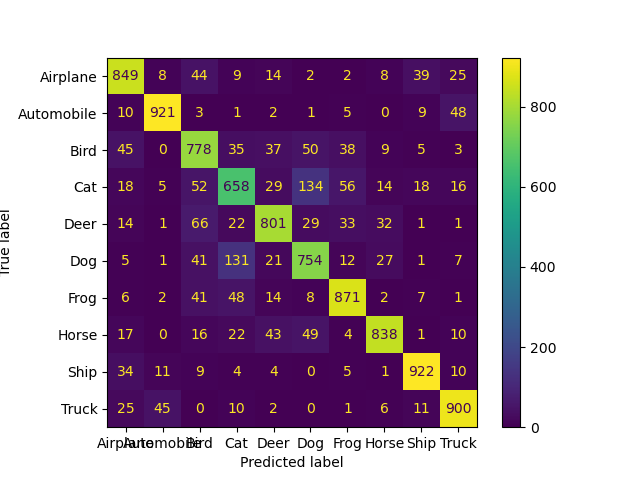
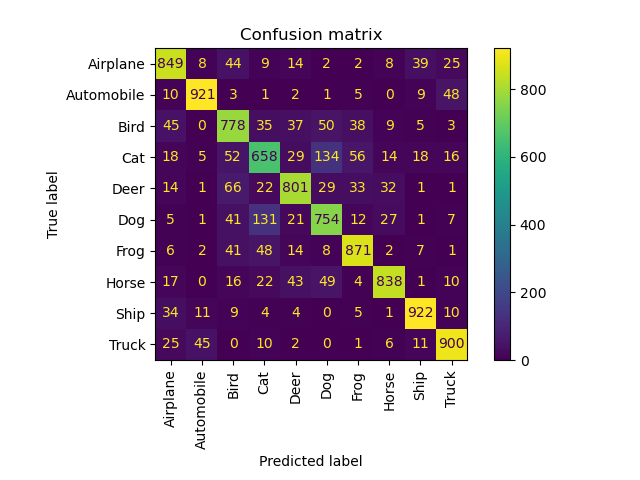
Improve cm plot visualization

diff --git a/train_pipeline/check_performance.py b/train_pipeline/check_performance.py
@@ -73,4 +73,7 @@ def check_performance(model: nn.Module, test_dataset: datasets):
             "Truck",
         ],
     ).plot(values_format="d")
+    plt.title("Confusion matrix")
+    plt.xticks(rotation=90)
+    plt.subplots_adjust(left=0.05, right=0.9, top=0.9, bottom=0.25)
     plt.savefig("confusion_matrix.png")
